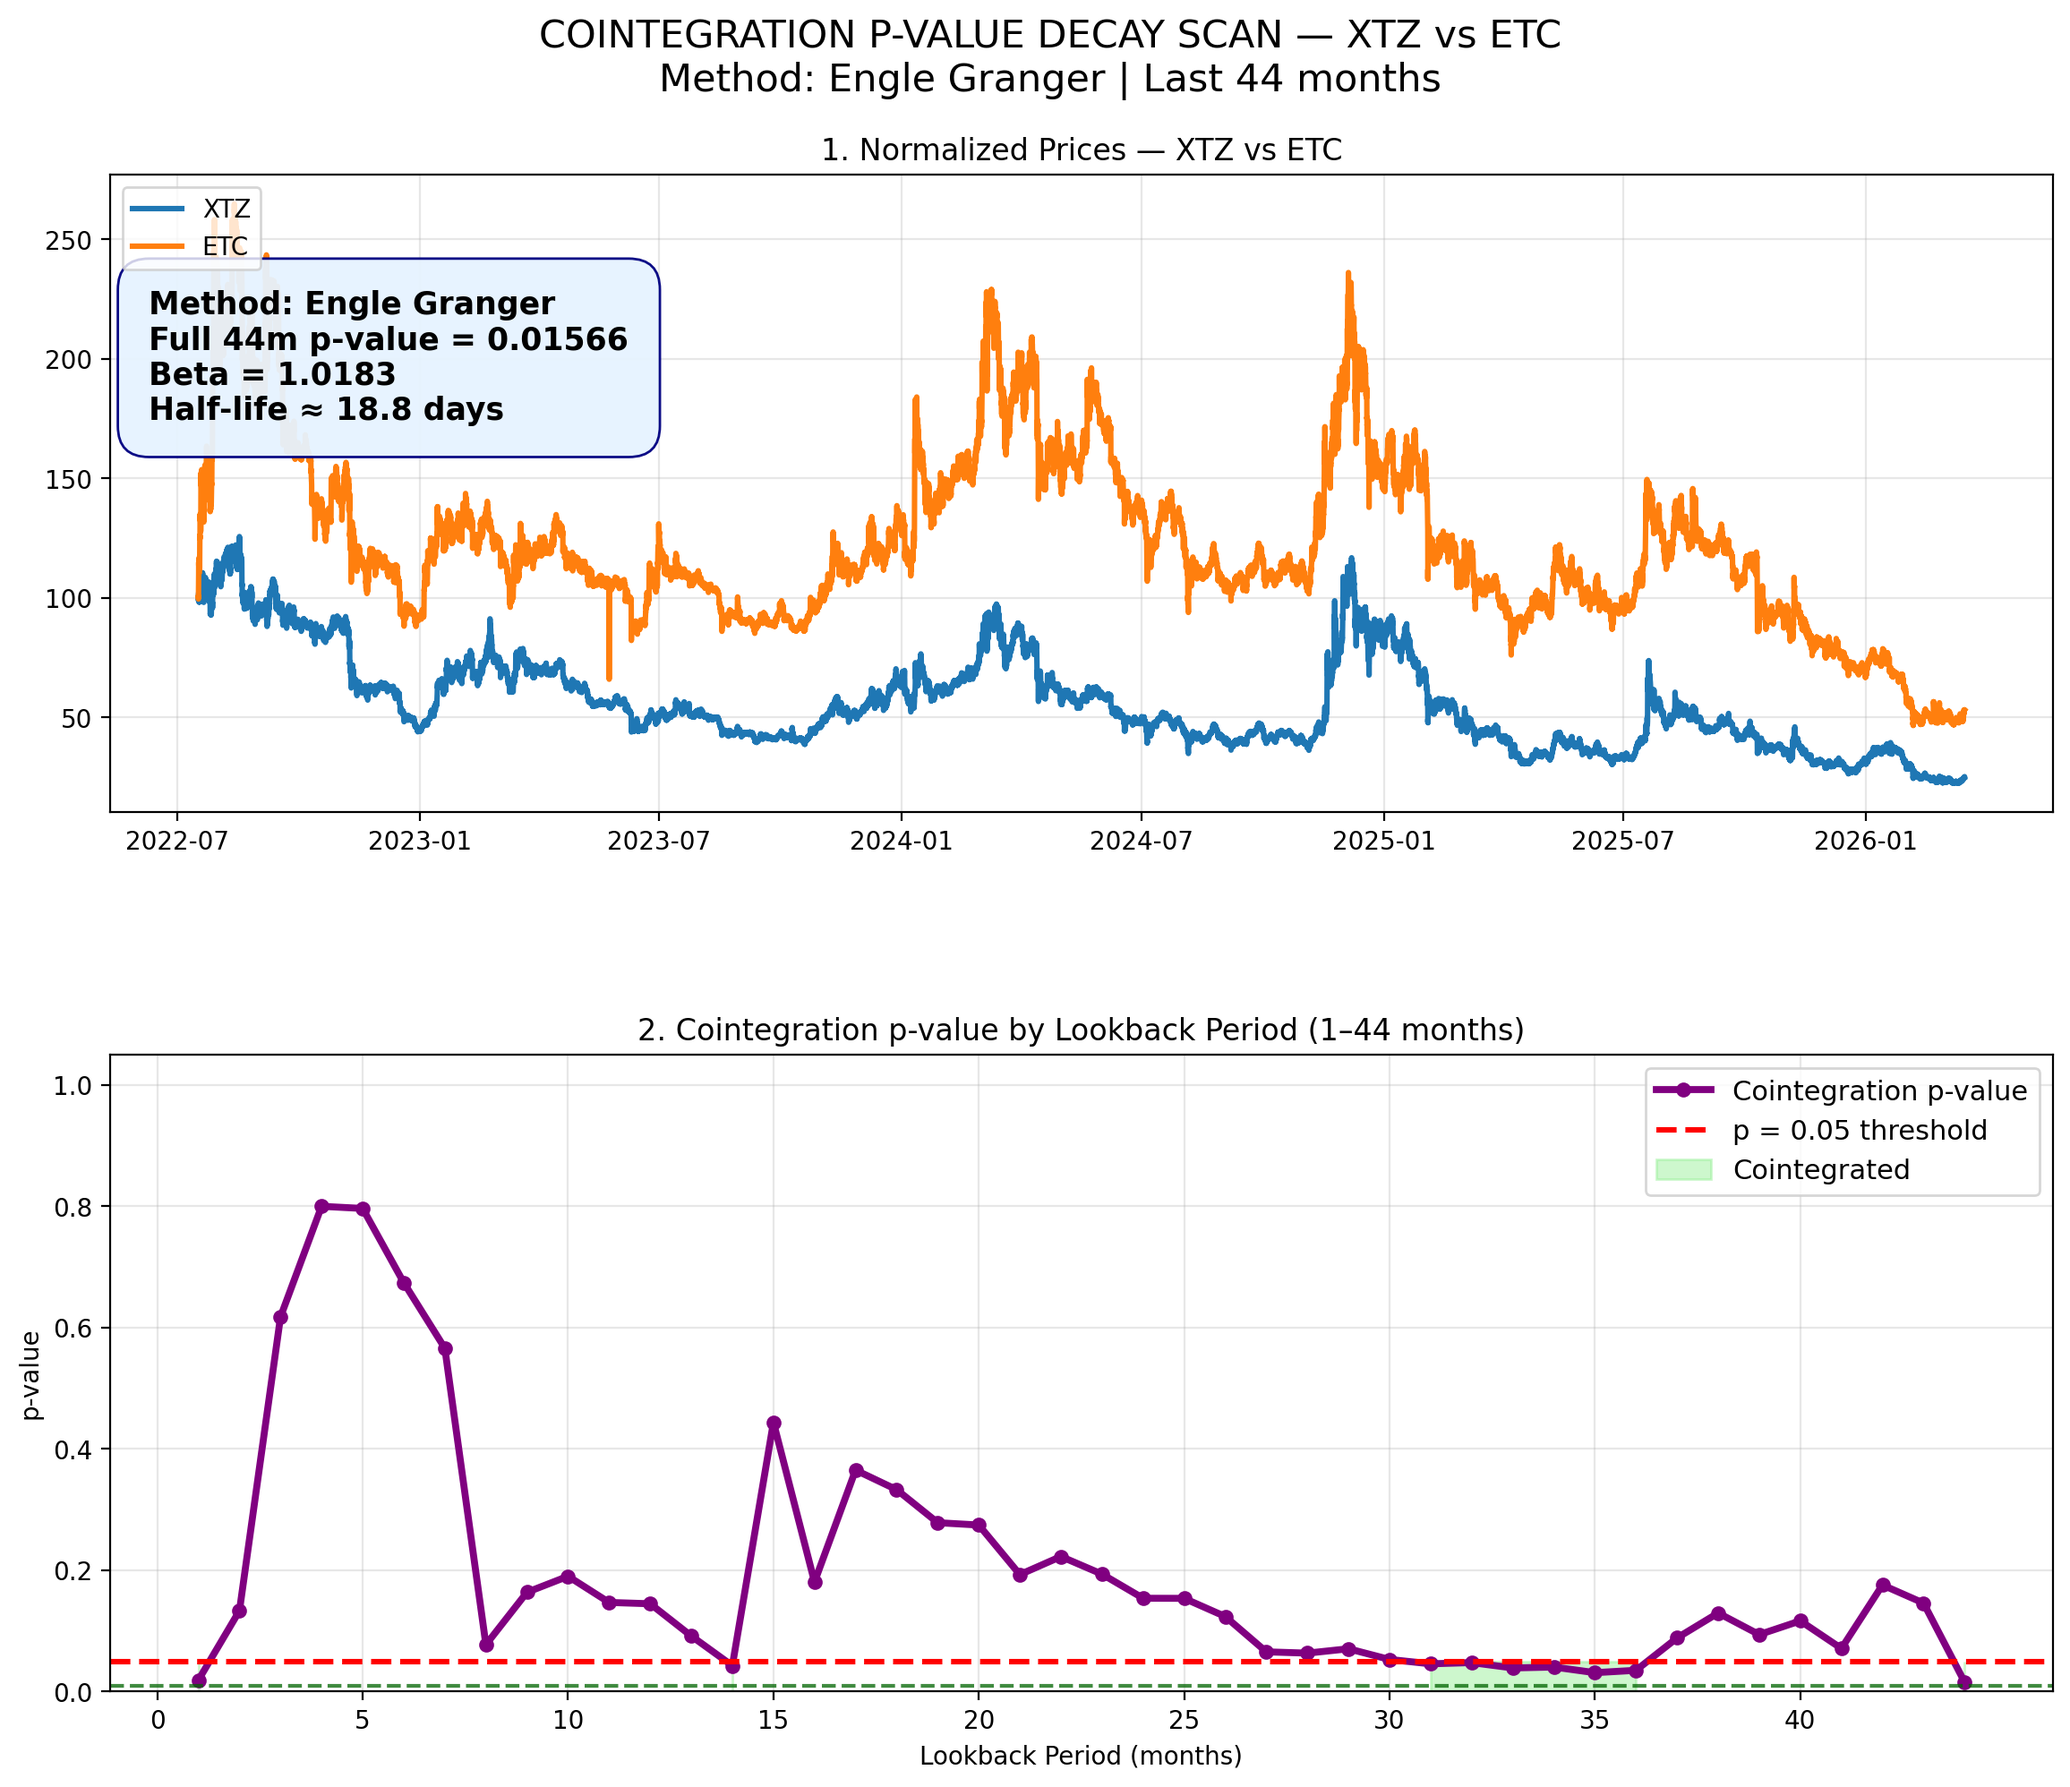
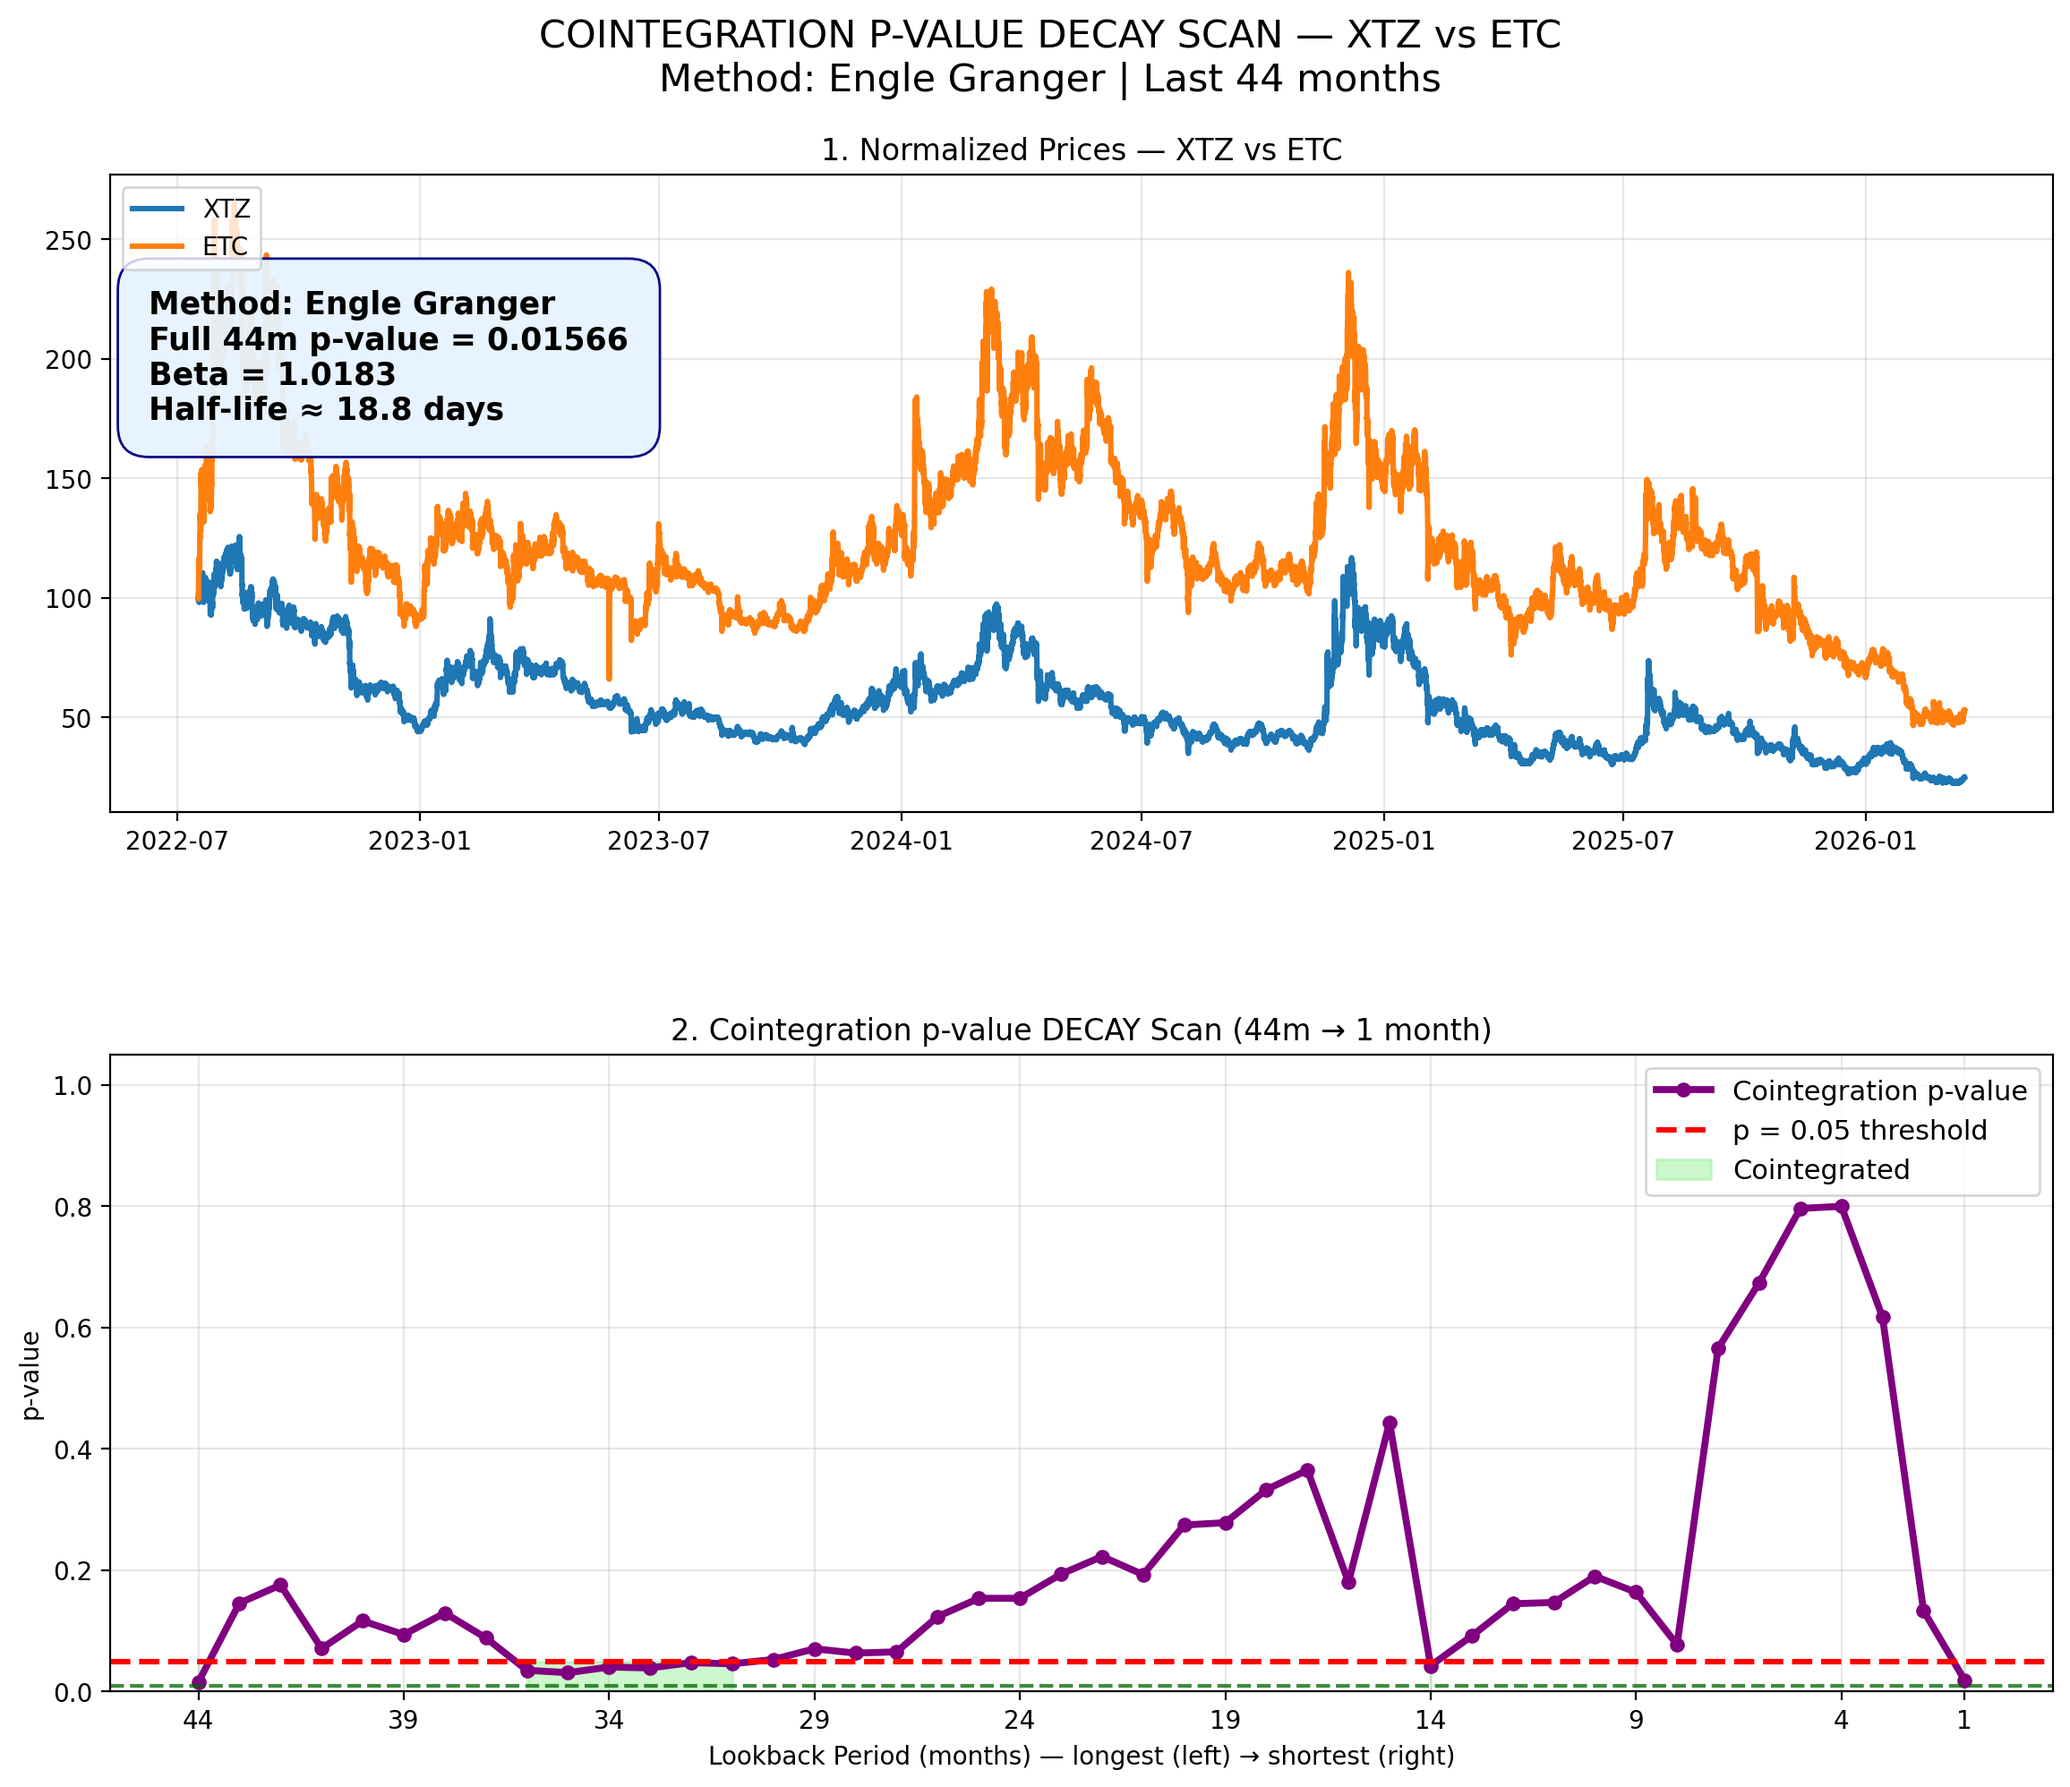
decay chart

diff --git a/src/pcv2/draw_cointegration_decay_chart.py b/src/pcv2/draw_cointegration_decay_chart.py
@@ -3,16 +3,14 @@ import pandas as pd
 import numpy as np
 import sys
 import os
-import matplotlib.dates as mdates
 from cointegration_engine import compute_cointegration
 from config import DEFAULT_CHART_MONTHS, DEFAULT_CSV_FILE, DEFAULT_COINTEGRATION_METHOD
 
 
 class CointegrationDecayChart:
-    """Simplified p-value decay scan:
-    - Top: normalized prices over full chart_months
-    - Bottom: cointegration p-value for every lookback from 1 month → chart_months
-    No rolling windows, no spread/z-score — pure & clean.
+    """P-value DECAY scan — now with true reversal:
+    Bottom chart: 44m (LEFT) → 1m (RIGHT)
+    Top chart unchanged.
     """
 
     def __init__(self, sym1: str, sym2: str, csv_file: str = None,
@@ -51,10 +49,8 @@ class CointegrationDecayChart:
 
     def _compute_lookback_pvalues(self, p1_full: pd.Series, p2_full: pd.Series):
         results = []
-        method_name = DEFAULT_COINTEGRATION_METHOD.value
-
         print(f"\nComputing cointegration p-values (1–{self.chart_months} months) "
-              f"using {method_name}...")
+              f"using {DEFAULT_COINTEGRATION_METHOD.value}...")
 
         for m in range(1, self.chart_months + 1):
             hours_back = int(m * 30.437 * 24)
@@ -62,7 +58,6 @@ class CointegrationDecayChart:
             p2_win = p2_full.iloc[-hours_back:]
 
             if len(p1_win) < 200:
-                print(f"  ⚠ {m:2d} months: too few bars ({len(p1_win)}), skipped")
                 continue
 
             eg = compute_cointegration(p1_win, p2_win, method=DEFAULT_COINTEGRATION_METHOD)
@@ -83,17 +78,18 @@ class CointegrationDecayChart:
         p1, p2 = self._load_data()
         lookback_results = self._compute_lookback_pvalues(p1, p2)
 
-        # Prepare plot data
-        months = [r['months'] for r in lookback_results]
-        pvals = [r['p_value'] for r in lookback_results]
+        # Save full-period result BEFORE any reversal (fixes the weird half-life bug)
+        full = lookback_results[-1]
 
-        # Normalized prices (full period)
+        # Data for plotting (still ascending for correct fill_between)
+        months = [r['months'] for r in lookback_results]   # 1 → 44
+        pvals  = [r['p_value'] for r in lookback_results]
+
+        # Normalized prices
         norm1 = p1 / p1.iloc[0] * 100
         norm2 = p2 / p2.iloc[0] * 100
 
-        # === FIGURE ===
-        fig, axs = plt.subplots(2, 1, figsize=(14, 11),
-                                gridspec_kw={'hspace': 0.38})
+        fig, axs = plt.subplots(2, 1, figsize=(14, 11), gridspec_kw={'hspace': 0.38})
 
         # ==================== CHART 1: NORMALIZED PRICES ====================
         axs[0].plot(norm1.index, norm1, label=self.sym1, linewidth=2.2)
@@ -102,8 +98,6 @@ class CointegrationDecayChart:
         axs[0].legend(loc='upper left')
         axs[0].grid(True, alpha=0.3)
 
-        # Nice summary box
-        full = lookback_results[-1]
         method_display = DEFAULT_COINTEGRATION_METHOD.value.replace('_', ' ').title()
         axs[0].text(0.02, 0.82,
                     f"Method: {method_display}\n"
@@ -115,7 +109,7 @@ class CointegrationDecayChart:
                     bbox=dict(boxstyle="round,pad=1", facecolor="#e6f3ff",
                               edgecolor='navy', alpha=0.95))
 
-        # ==================== CHART 2: P-VALUE SWEEP ====================
+        # ==================== CHART 2: P-VALUE DECAY (44m LEFT → 1m RIGHT) ====================
         ax = axs[1]
         ax.plot(months, pvals, marker='o', markersize=5, linewidth=2.8,
                 color='purple', label='Cointegration p-value')
@@ -129,15 +123,24 @@ class CointegrationDecayChart:
                         color='lightgreen', alpha=0.45,
                         label='Cointegrated')
 
-        ax.set_title(f"2. Cointegration p-value by Lookback Period (1–{self.chart_months} months)")
-        ax.set_xlabel("Lookback Period (months)")
+        ax.set_title(f"2. Cointegration p-value DECAY Scan ({self.chart_months}m → 1 month)")
+        ax.set_xlabel("Lookback Period (months) — longest (left) → shortest (right)")
         ax.set_ylabel("p-value")
         ax.set_ylim(0, 1.05)
         ax.grid(True, alpha=0.3)
         ax.legend(fontsize=11)
-        ax.set_xticks(range(0, self.chart_months + 1, max(1, self.chart_months // 8)))
 
-        # ==================== SAVE (NEW FILENAME FORMAT) ====================
+        # === DESCENDING TICKS (44, 40, ..., 1) ===
+        step = max(4, self.chart_months // 8)
+        ticks = list(range(self.chart_months, 0, -step))
+        if 1 not in ticks:
+            ticks.append(1)
+        ax.set_xticks(ticks)
+
+        # === THE MAGIC: REVERSE THE AXIS SO 44 IS ON THE LEFT ===
+        ax.invert_xaxis()
+
+        # ==================== SAVE ====================
         fig.suptitle(f"COINTEGRATION P-VALUE DECAY SCAN — {self.sym1} vs {self.sym2}\n"
                      f"Method: {method_display} | Last {self.chart_months} months",
                      fontsize=15.5, y=0.96)
